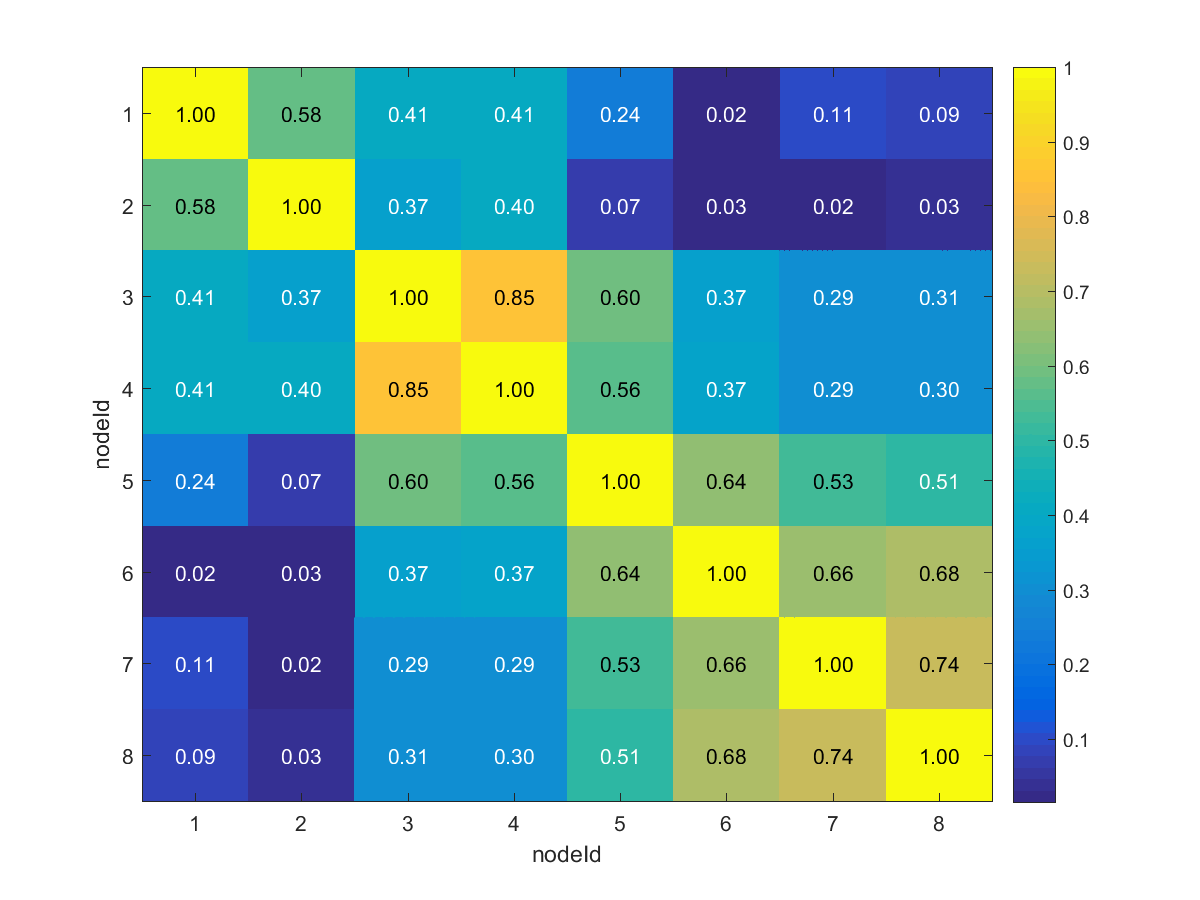
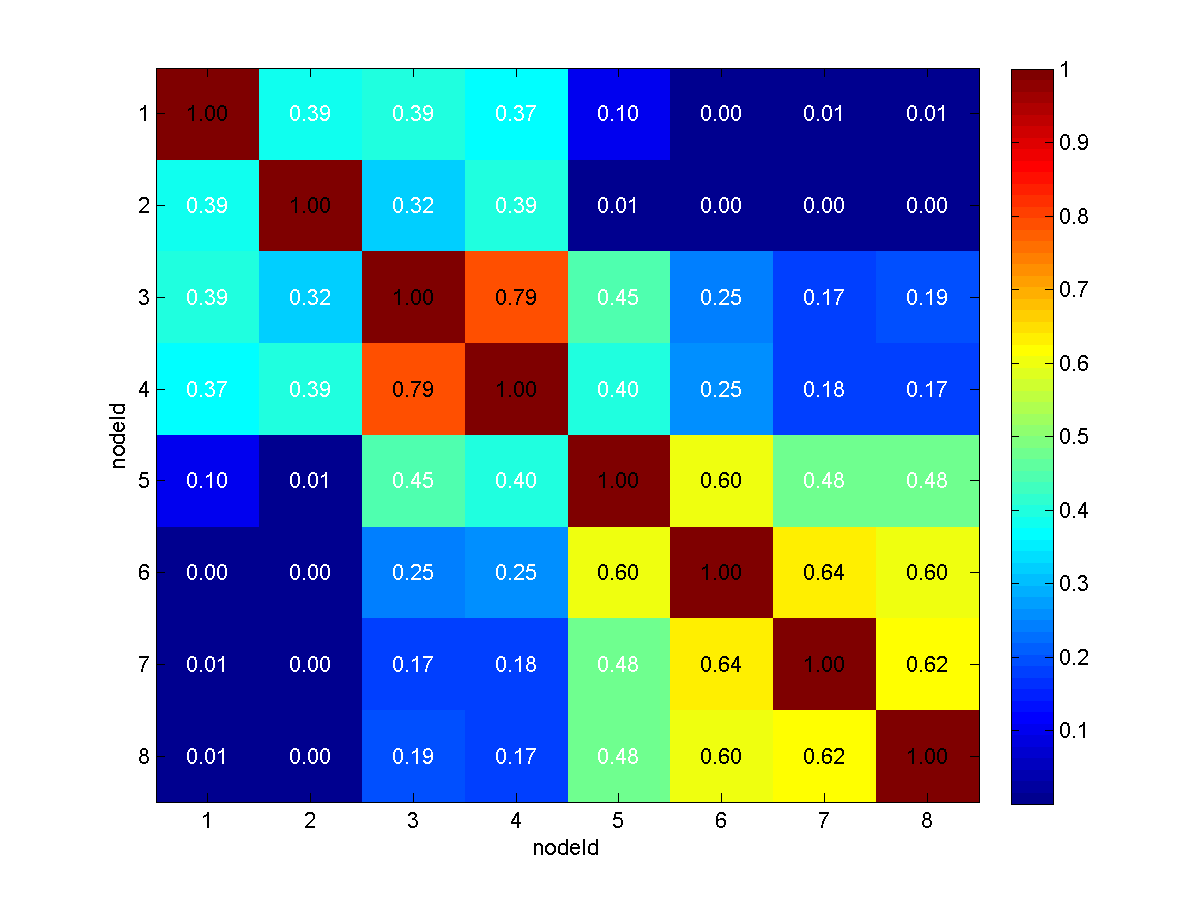
change to pir array generation logic

diff --git a/binary_correlation.m b/binary_correlation.m
@@ -1,6 +1,6 @@
 %calculate binary coefficients
 clear corr_matrix;
-num_mins=6;
+num_mins=8;
 window_size = num_mins*60*10;%num_mins min=num_mins*60*10ms
 overlap_size = window_size/2; %2min = 2*60*100ms
 figure1=figure;
@@ -27,9 +27,9 @@ for i=1:8
                 % in the same positions
                 q_1 = c+d; % number of 0's in 1st array
                 q_2 = b+d; % number of 0's in 2nd array      
-%                 value=correlation_coefficient(a,p_1,p_2);
+                value=correlation_coefficient(a,p_1,p_2);
 %                 value=gleas( a,p_1,p_2 );
-                value=jacard( a,b,c );
+%                 value=jacard( a,b,c );
 %                 value=bb( a,p_1,p_2 );
 %                 value=loevinger(a,b,c,d,p_1,p_2,q_1,q_2);
 %                 value=cohen(a,b,c,d,p_1,p_2,q_1,q_2);
@@ -49,9 +49,9 @@ for l =1:8
     end
     
 end
-% G= graph(graphMatrix);
-% plot(G);
-% figure;
+G= graph(graphMatrix);
+plot(G);
+figure;
 h=imagesc(corr_matrix);
 xlabel('nodeId');ylabel('nodeId');
 % impixelregion(h);

diff --git a/DecimalTo32bits.m b/DecimalTo32bits.m
@@ -2,7 +2,7 @@ function [ y ] = DecimalTo32bits( element,first,second,third,fourth )
 %UNTITLED2 Summary of this function goes here
 %   Detailed explanation goes here
 
-y = de2bi(element(fourth),32)+de2bi(bitsll(element(third),8),32)+de2bi(bitsll(element(second),16),32)+de2bi(bitsll(element(first),24),32);
+y = de2bi(element(first),32)+de2bi(bitsll(element(second),8),32)+de2bi(bitsll(element(third),16),32)+de2bi(bitsll(element(fourth),24),32);
 % y=fliplr(flipY);
 end
 

diff --git a/normal_binary_correlation.m b/normal_binary_correlation.m
@@ -21,7 +21,7 @@ for i=1:8
         %variable in the same positions
         %c = proportion of 0s in the first variable and 1s in second variable
         % in the same positions
-%                          value=correlation_coefficient(a,p_1,p_2);
+                         value=correlation_coefficient(a,p_1,p_2);
         %                 value=gleas( a,p_1,p_2 );
 %                         value=jacard( a,b,c );
 %                         value=bb( a,p_1,p_2 );

diff --git a/time_analysis.m b/time_analysis.m
@@ -1,14 +1,14 @@
 clear;
 tick = 0.001;
 tick = 1;
-MAC_ID =4;
+MAC_ID =2;
 PACKET_COUNT = 6;
 UINT8_MAX_NUM = 256;
 % nameOfDir = 'data';
 % listing=dir(nameOfDir);
 % matFile = strcat(nameOfDir,'\',listing(3).name);
 % load(matFile);
-load('2ppl_2way_normal_29_01_2016_zigzag.mat');
+load('29_02_under_1_2.mat');
 recPAckets=ones(1,8);
 length = size(dataArray);
 % min([dataArrat()])

diff --git a/TimeArrayGenerator2.m b/TimeArrayGenerator2.m
@@ -7,7 +7,7 @@ for i = 1:count-1
         start = startTime(i); 
         end_ = endTime(i);
         tempTime_1(:,i) = transpose(start:(diff/31):end_);
-        i
+        
         
   
 end

diff --git a/time_analysis_Short.m b/time_analysis_Short.m
@@ -3,7 +3,7 @@ tick = 0.001;
 MAC_ID =2;
 PACKET_COUNT = 6;
 UINT8_MAX_NUM = 256;
-load('under_8.mat');
+load('19_02.mat');
 recPAckets=ones(1,8);
 length = size(dataArray);
 count=ones(1,8);
